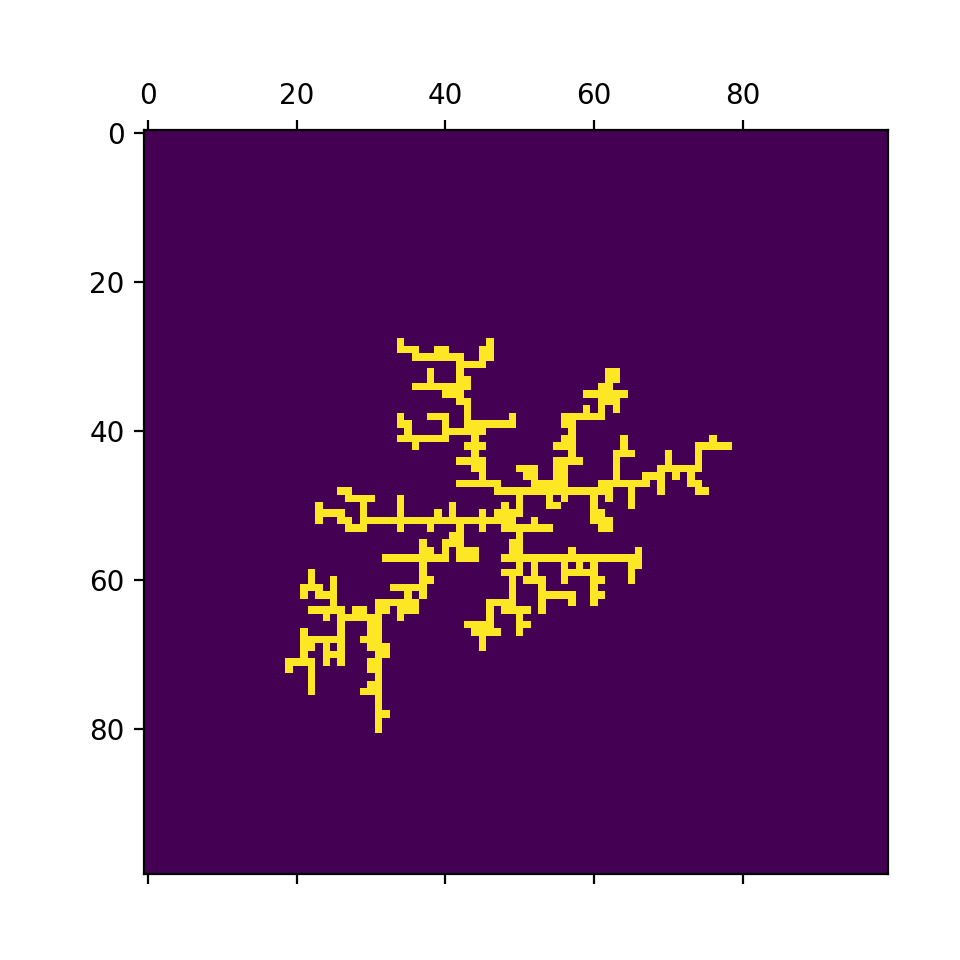
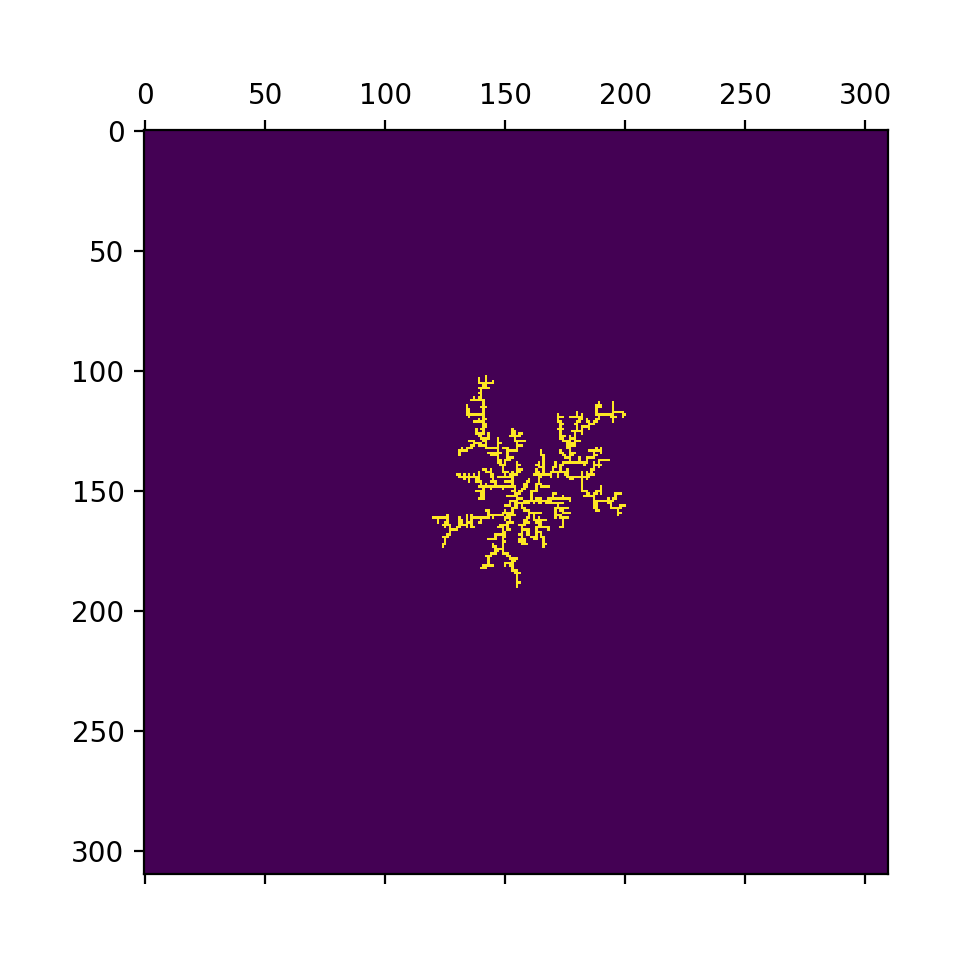
update

diff --git a/src/Cluster.py b/src/Cluster.py
@@ -1,15 +1,17 @@
 import numpy as np
-from src.Seed import Seed
-import random
+from src.Particle import Particle
+
 
 class Cluster:
 
-    def __init__(self, side_len):
+    def __init__(self, side_len, max_radius=1):
         self.side_len = side_len
         self.grid = np.zeros((side_len, side_len))
         self.cluster_size = 0
-        self.step_limit = 1000
+        self.step_limit = 10000
+        self.delta = 2 * np.pi
         self.put_init_seed()
+        self.max_radius = max_radius
 
     def put_init_seed(self):
         """
@@ -19,27 +21,33 @@ class Cluster:
         x = y = self.side_len // 2
         self.grid[x][y] = 1
 
-    def get_radius(self):
+    def get_aggr_size(self):
         """
         Calculate the distance of the most distal seed from the center
         :return: the distance
         """
         x, y = np.where(self.grid == 1)
         mid = self.side_len // 2
-        return max(np.sqrt(np.power(x - mid, 2) + np.power(y - mid, 2)))
+        return np.mean(np.sqrt(np.power(x - mid, 2) + np.power(y - mid, 2))) + 3
 
-    def employ_seed(self):
+    def launch_walker(self, mode):
         """
         Put a new seed to the lattice
         :return: whether the seed is attached to the grid
         """
-        new_seed = self.generate_random_point(self.get_radius() + 10)
+        new_seed = self.generate_random_point(self.get_aggr_size() * 2)
+        print(new_seed)
         is_attached = False
         steps = 0
+        phi = 0
         while True:
-            new_seed = self.monte_carlo_location(new_seed[0], new_seed[1])
+
+            if mode == "ol":
+                new_seed, phi = self.off_lattice_loc(new_seed[0], new_seed[1], phi)
+            if mode == "mc":
+                new_seed = self.monte_carlo_location(new_seed[0], new_seed[1])
             x, y = tuple(new_seed)
-            if self.is_rambling(x, y, self.side_len + 30):
+            if self.is_rambling(x, y, self.get_aggr_size() * 3): # 3 * aggregation size
                 break
             if self.is_near_boundary(x, y):
                 break
@@ -59,10 +67,10 @@ class Cluster:
         :param radius: the radius of the circle
         :return: coordinates of the location
         """
-        seed_x = seed_y = self.side_len // 2
+        mid = self.side_len // 2
         theta = 2 * np.pi * np.random.random()
-        x = int(radius * np.cos(theta)) + seed_x
-        y = int(radius * np.sin(theta)) + seed_y
+        x = int(radius * np.cos(theta)) + mid
+        y = int(radius * np.sin(theta)) + mid
         return [x, y]
 
     def is_near_cluster(self, x, y):
@@ -99,7 +107,7 @@ class Cluster:
         return False
 
     def monte_carlo_location(self, x, y):
-        act = random.random()
+        act = np.random.uniform(low=0, high=1)
         if act < 0.25:
             return [x + 1, y]
         elif act < 0.5:
@@ -108,6 +116,14 @@ class Cluster:
             return [x, y + 1]
         else:
             return [x, y - 1]
+
+    def off_lattice_loc(self, x, y, phi):
+        eta = np.random.uniform(low=0, high=self.delta)
+        new_phi = phi + eta
+        alpha = 2
+        new_x = x + int(alpha * np.cos(new_phi))
+        new_y = y + int(alpha * np.sin(new_phi))
+        return [new_x, new_y], phi
 
     def get_directions(self, x, y, mode):
         if mode == 8:

diff --git a/src/Particle.py b/src/Particle.py
@@ -1,0 +1,30 @@
+import numpy as np
+
+
+class Particle:
+
+    def __init__(self, loc, max_radius):
+        self.loc = loc
+        self.radius = round(np.random.uniform(low=1, high=max_radius))
+
+    def is_near_boundary(self, side_len):
+        """
+        Check if this particle is near the boundary
+        :param side_len:
+        :return:
+        """
+        x = self.loc[0]
+        y = self.loc[1]
+        return x + self.radius > side_len or y + self.radius > side_len
+
+    def is_rambling(self, value, side_len):
+        """
+        Check if this particle is rambling out of the given range
+        :param side_len:
+        :param x: the x coordinate
+        :param y: the y coordinate
+        :param value: threshold
+        :return: boolean value
+        """
+        mid = side_len // 2
+        return np.sqrt((self.loc[0] - mid) ** 2 + (self.loc[1] - mid) ** 2) > value

diff --git a/run-cmd.py b/run-cmd.py
@@ -1,0 +1,26 @@
+from src.Cluster import Cluster
+import matplotlib.pyplot as plt
+from matplotlib import colors
+import numpy as np
+import sys
+
+if len(sys.argv) != 3:
+    print("Usage: python run.py <total_cluster_size> <total step>")
+    exit(0)
+
+total_size = sys.argv[1]
+total_step = sys.argv[2]
+method = 'mc'
+
+c = Cluster(int(np.sqrt(total_size)) * 10)
+count = 0
+while c.cluster_size < total_size and count < total_step:
+    print("Step: " + str(count) + "; Current size = " + str(c.cluster_size))
+    c.launch_walker(method)
+    count += 1
+
+plt.title("DLA Cluster", fontsize=20)
+plt.matshow(c.grid)  # plt.cm.Blues) #ocean, Paired
+fname = "images/cluster_"+method+"_"+str(c.cluster_size)+".png"
+plt.savefig(fname, dpi=200)
+plt.close()

diff --git a/run.py b/run.py
@@ -3,13 +3,16 @@ import matplotlib.pyplot as plt
 from matplotlib import colors
 import numpy as np
 
-c = Cluster(100)
+total_size = 10
+
+c = Cluster(int(np.sqrt(total_size)) * 10, max_radius=5)
 count = 0
-while c.cluster_size < 1000:
-    c.employ_seed()
+while c.cluster_size < total_size:
+    print("Step: " + str(count) + "; Current size = " + str(c.cluster_size))
+    c.launch_walker('ol')
     count += 1
 
 plt.title("DLA Cluster", fontsize=20)
 plt.matshow(c.grid)  # plt.cm.Blues) #ocean, Paired
-plt.savefig("images/cluster.png", dpi=200)
+plt.savefig("images/cluster_ol_30.png", dpi=200)
 plt.close()
